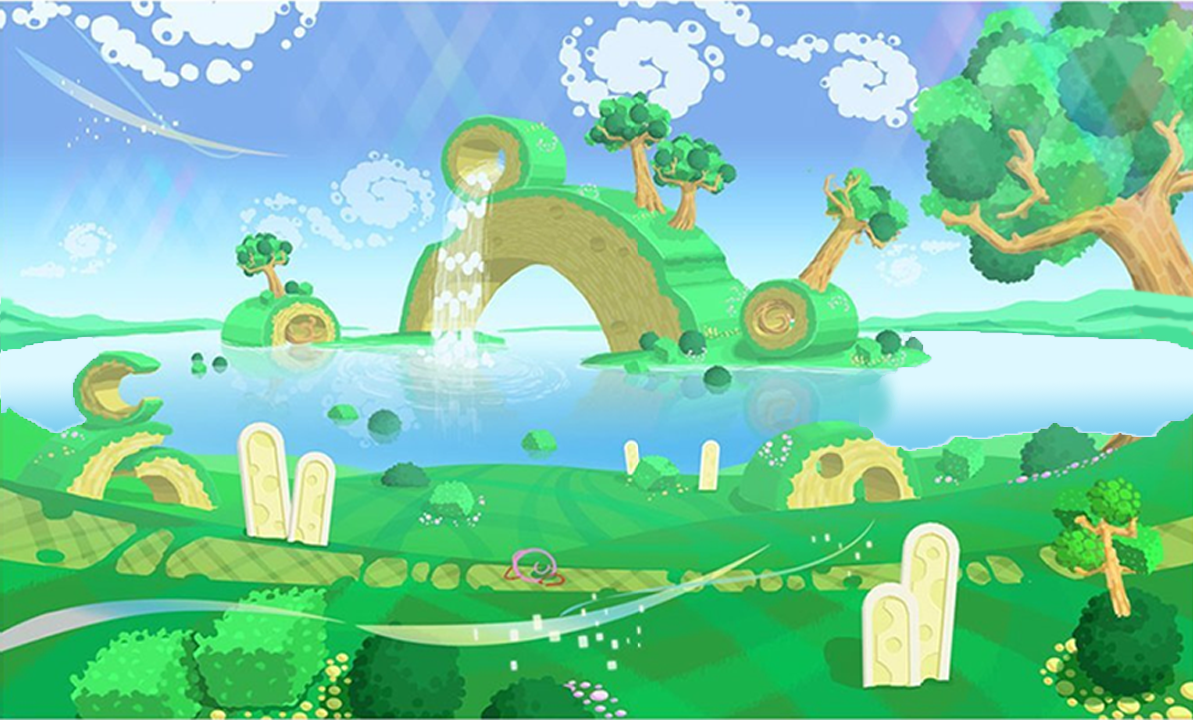
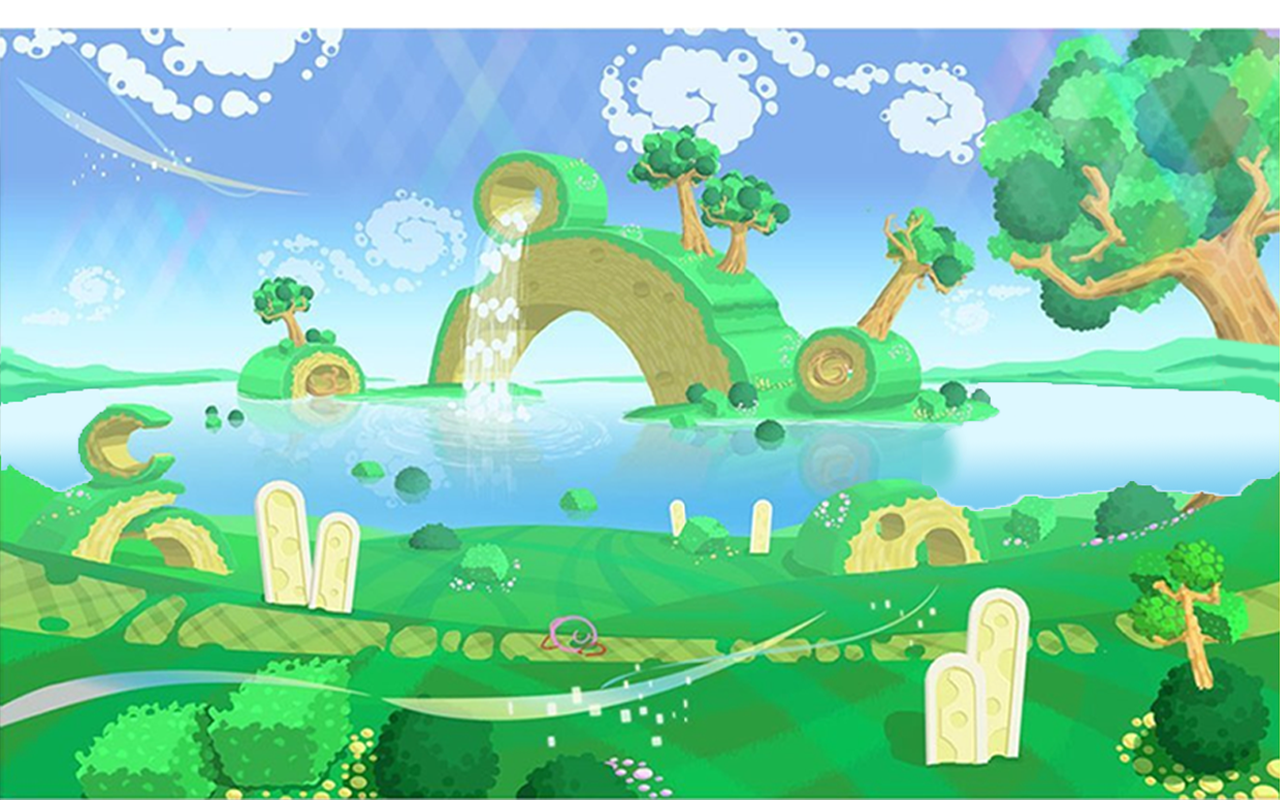
mudanças no plano de fundo

diff --git a/obstaculo_random_teste.py b/obstaculo_random_teste.py
@@ -116,7 +116,7 @@ class Plataforma(pygame.sprite.Sprite):
         self.rect.y = y
 
 def imagem_aleatoria():
-    obs_img1 = pygame.image.load(path.join(obs_dir, "arbusto_tipo2.png")).convert()
+    obs_img1 = pygame.image.load(path.join(obs_dir, "imagem_de_fundo.png")).convert()
     obs_img1.set_colorkey(BLUE)
 
     obs_img2 = pygame.image.load(path.join(obs_dir, "casinha.png")).convert()
@@ -196,7 +196,7 @@ def Menu():
 #  text = smallfont.render("Pontos:" , black)
 #  screen.blit(text, [0,0])
 
-fundo = pygame.image.load(path.join(cenarios_dir,'imagem_de_fundo.png')).convert()
+fundo = pygame.image.load(path.join(cenarios_dir,'imagem_de_fundo_atual2.png')).convert()
 fundo.set_colorkey(black)
 fundoX = 0
 fundoX2 = fundo.get_width()
@@ -237,7 +237,7 @@ while running:
         if event.type == USEREVENT+2:
             r = random.randrange(0,2)
             if r == 0 or r ==1:
-                new_obstacle = Obstaculo(810, HEIGHT-300, 20, 20) 
+                new_obstacle = Obstaculo(810, HEIGHT-300, 20, 20)
                 obstacles.add(new_obstacle)
                 all_sprites.add(new_obstacle)
 
@@ -271,8 +271,8 @@ while running:
     #Velocidade dos fundos
     fundoX -= 8
     fundoX2 -= 8
-    cenario_plataformaX -= 10
-    cenario_plataformaX2 -= 10
+    cenario_plataformaX -= 8
+    cenario_plataformaX2 -= 8
 
     if fundoX < fundo.get_width() *-1:
         fundoX = fundo.get_width()
